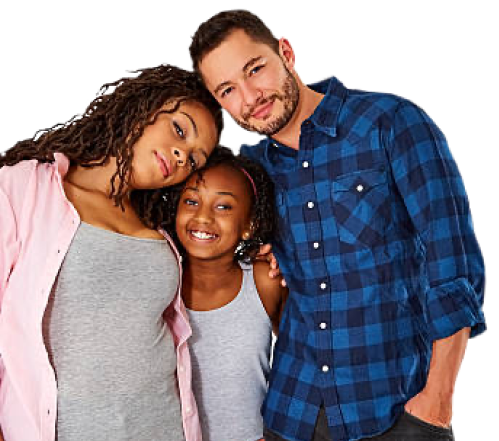
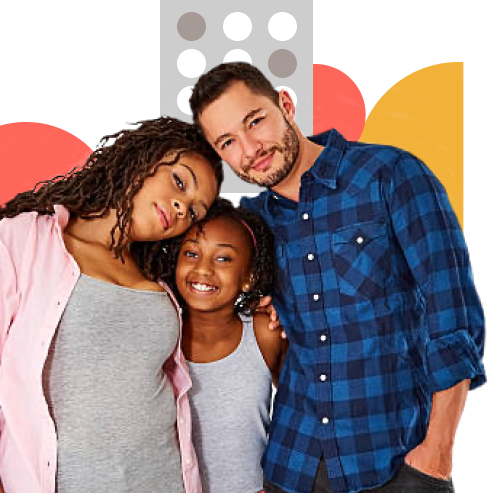
- Add new image. - ADd hero to index. - Add align prop in hero component.

diff --git a/src/pages/index.tsx b/src/pages/index.tsx
@@ -8,7 +8,7 @@ import Hero from '../components/hero/Hero';
 import content from './index.content.yml';
 
 const IndexPage: React.FC = () => {
-  const { hero } = content.home;
+  const { hero, mission } = content.home;
 
   return (
     <Layout>
@@ -30,6 +30,20 @@ const IndexPage: React.FC = () => {
         </section>
         <Features />
         <Topics />
+        {mission && (
+          <GridContainer>
+            <Hero
+              path={mission.image.slice(3)}
+              alt={mission.imgAlt}
+              backgroundColor={mission.backgroundColor}
+              title={mission.title}
+              content={mission.content}
+              imageAlign="left"
+            >
+              <p>Content</p>
+            </Hero>
+          </GridContainer>
+        )}
       </main>
     </Layout>
   );

diff --git a/src/components/hero/Hero.tsx b/src/components/hero/Hero.tsx
@@ -11,6 +11,7 @@ type HeroProps = {
   path?: string;
   alt?: string;
   backgroundColor?: 'primary' | 'secondary' | 'info' | 'light';
+  imageAlign?: 'left' | 'right';
   children?: React.ReactNode;
 };
 
@@ -20,6 +21,7 @@ export default function Hero({
   path,
   alt,
   backgroundColor,
+  imageAlign = 'right',
   children,
 }: HeroProps) {
   const imageNode = path && useGatsbyImages()[path];
@@ -31,7 +33,7 @@ export default function Hero({
 
   return (
     <section className={'usa-hero ' + backgroundColor}>
-      <div className="usa-grid">
+      <div className={`usa-grid ${imageAlign === 'left' ? 'left' : 'right'}`}>
         <div className="bgImage">{imageComponent}</div>
         <div className="usa-hero-callout usa-section-dark">
           <h2>{title}</h2>

diff --git a/src/components/hero/hero.scss b/src/components/hero/hero.scss
@@ -1,4 +1,4 @@
-@import "../../styles/settings.scss";
+@import '../../styles/settings.scss';
 
 .usa-hero {
   color: $dark;
@@ -20,8 +20,14 @@
 
 .usa-grid {
   display: flex;
-  flex-direction: row-reverse;
   align-items: center;
+
+  &.left {
+    flex-direction: row;
+  }
+  &.right {
+    flex-direction: row-reverse;
+  }
 }
 
 .primary {
